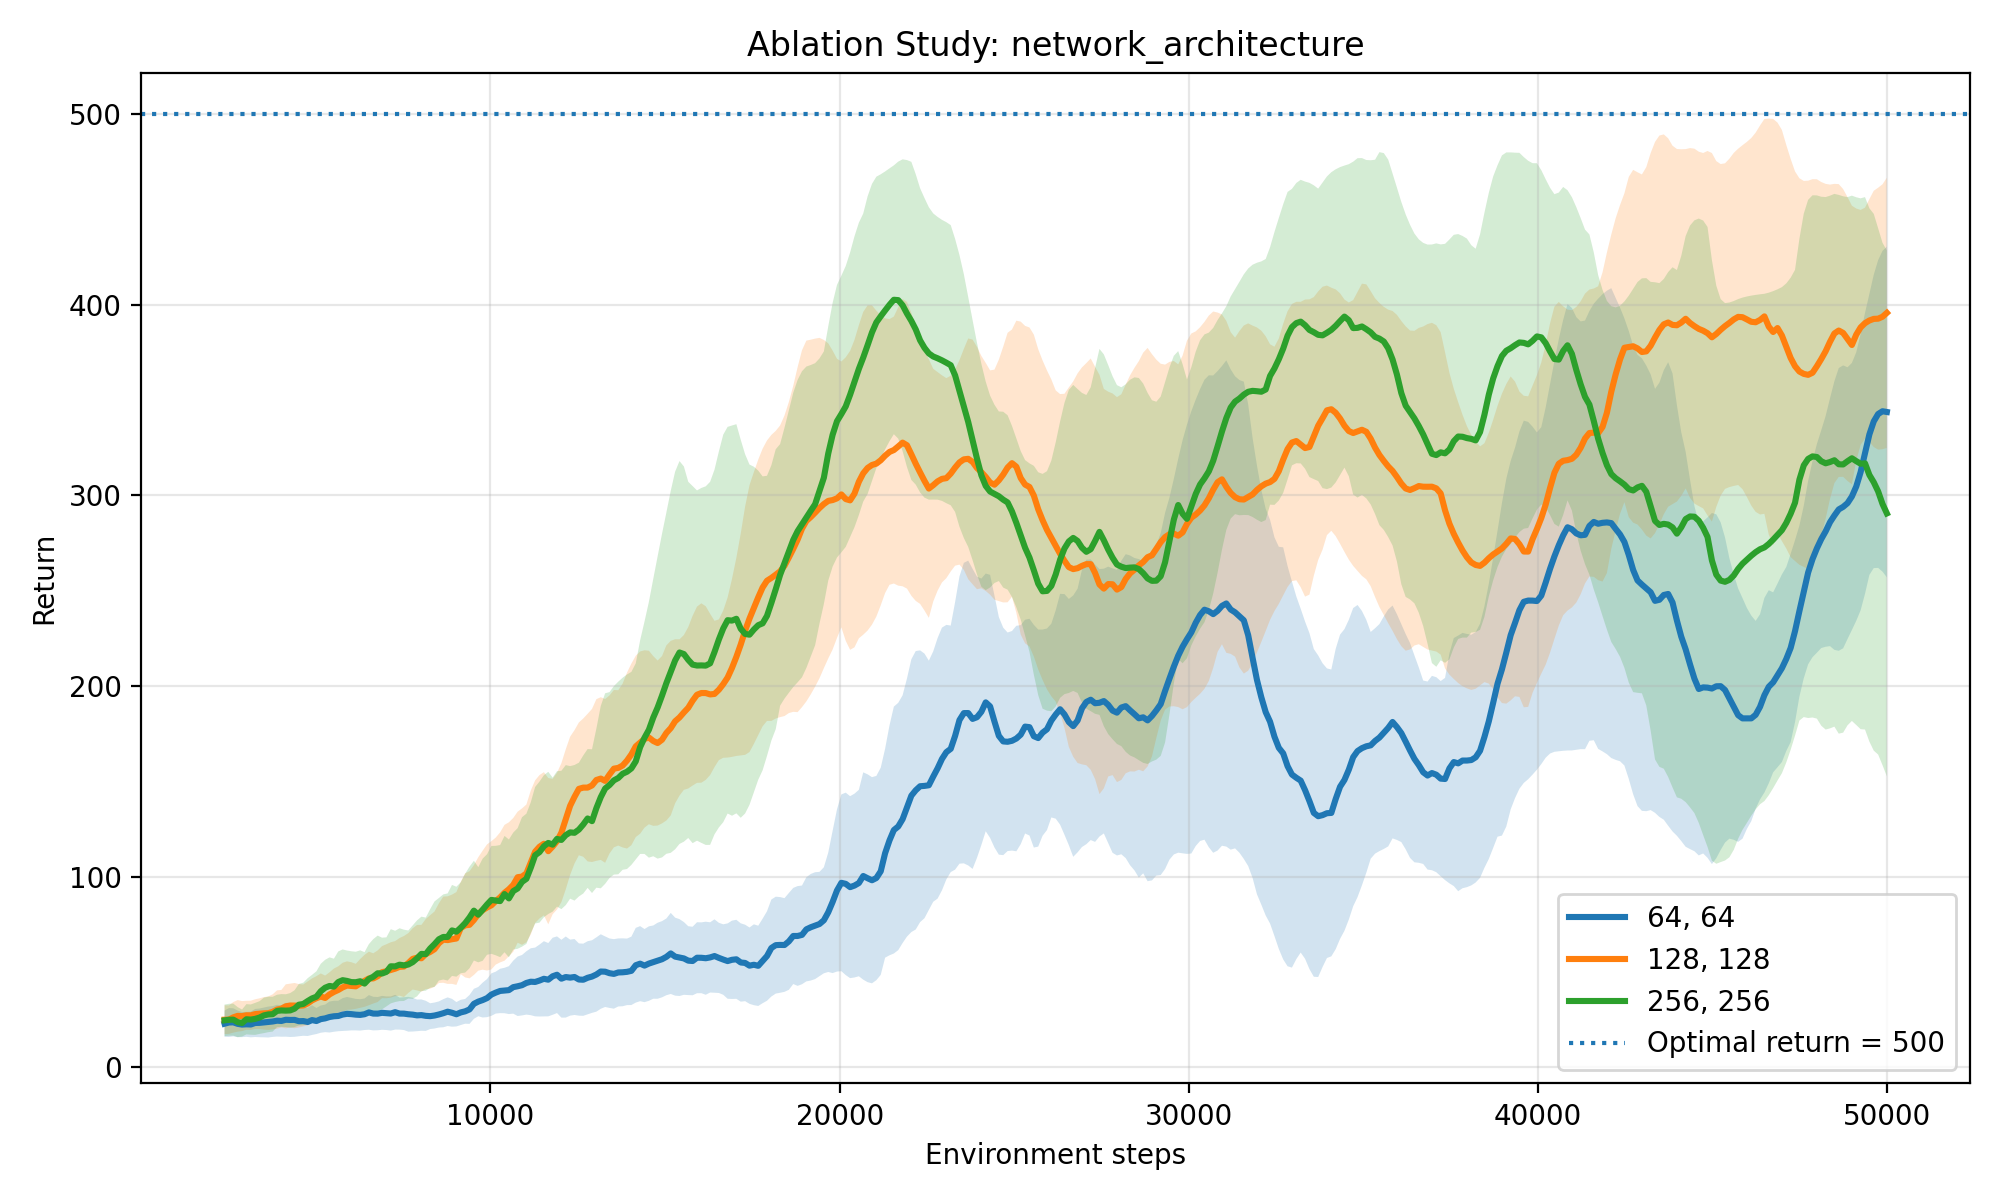
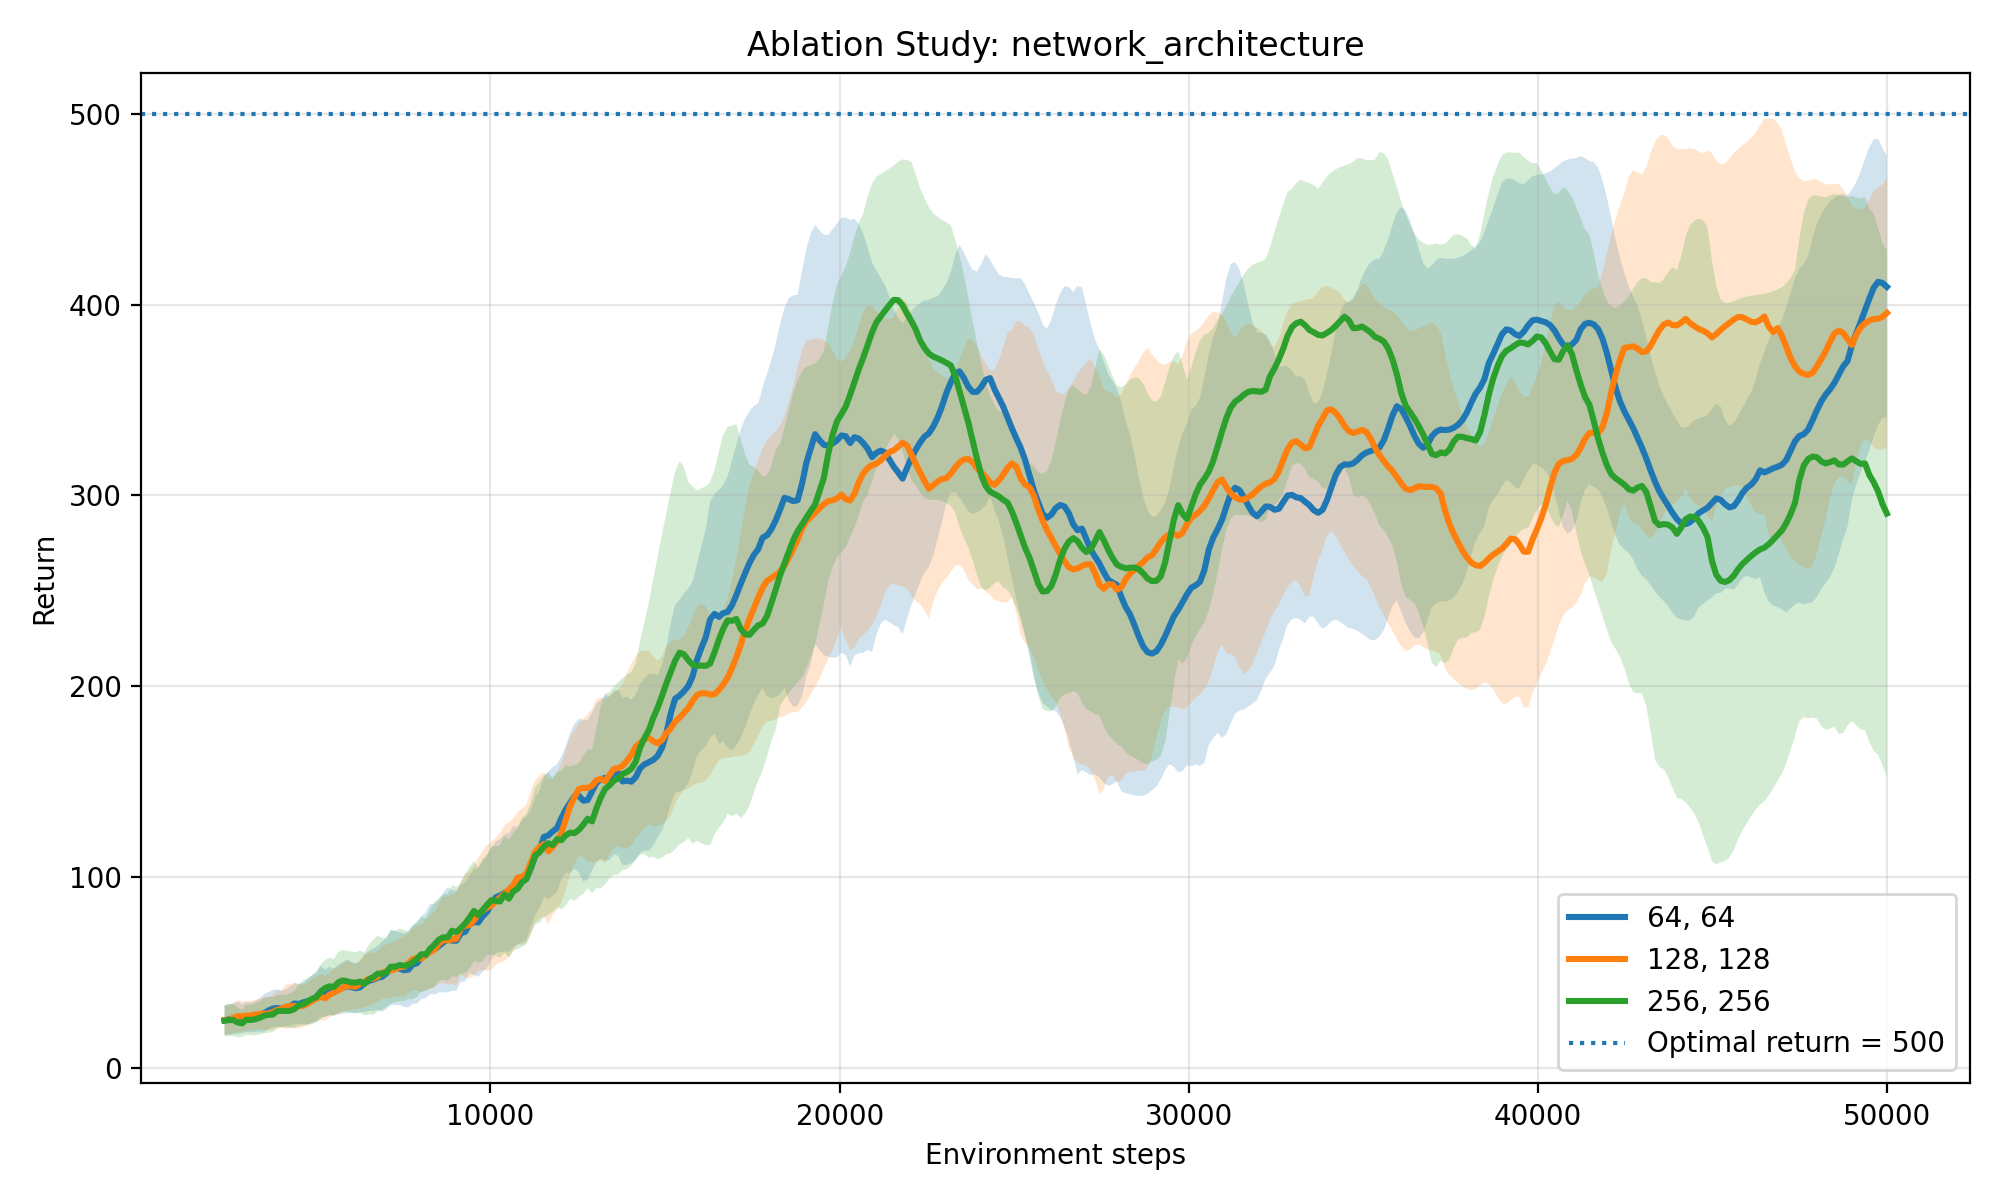
added upadets per step

Changed region(s): [[0.093, 0.1233, 0.961, 0.8633]]

diff --git a/ablation_study.py b/ablation_study.py
@@ -38,7 +38,6 @@ def interpolate_runs(runs, total_env_steps, num_points=400):
         if len(x) == 0:
             continue
 
-        # interpolate each seed's curve onto a shared x-grid
         y_interp = np.interp(x_grid, x, y)
         y_interp_runs.append(y_interp)
 
@@ -93,7 +92,7 @@ def run_ablation_study(base_cfg: Config, num_seeds=3, smoothing_window=20):
             "lr = 5e-3": replace(base_cfg, learning_rate=5e-3),
         },
         "network_architecture": {
-            "64, 64": replace(base_cfg, hidden_sizes=(64,)),
+            "64, 64": replace(base_cfg, hidden_sizes=(64, 64)),
             "128, 128": replace(base_cfg, hidden_sizes=(128, 128)),
             "256, 256": replace(base_cfg, hidden_sizes=(256, 256)),
         },
@@ -101,6 +100,11 @@ def run_ablation_study(base_cfg: Config, num_seeds=3, smoothing_window=20):
             "10k steps": replace(base_cfg, epsilon_decay_steps=10_000),
             "20k steps": replace(base_cfg, epsilon_decay_steps=20_000),
             "50k steps": replace(base_cfg, epsilon_decay_steps=50_000),
+        },
+        "update_to_data_ratio": {
+            "0.5 updates/step": replace(base_cfg, updates_per_step=0.5),
+            "1 update/step": replace(base_cfg, updates_per_step=1.0),
+            "4 updates/step": replace(base_cfg, updates_per_step=4.0),
         },
     }
 

diff --git a/Q_learning_target_replay.py b/Q_learning_target_replay.py
@@ -25,6 +25,8 @@ class Config:
     epsilon_start: float = 1.0
     epsilon_end: float = 0.05
     epsilon_decay_steps: int = 20000
+    updates_per_step: float = 1.0
+
 
     hidden_sizes: tuple = (128, 128)
 
@@ -202,6 +204,8 @@ def train(cfg: Config):
     set_seed(cfg.seed)
 
     env = gym.make(cfg.env_name)
+    env.action_space.seed(cfg.seed)
+
     obs_dim = env.observation_space.shape[0]
     action_dim = env.action_space.n
 
@@ -217,6 +221,8 @@ def train(cfg: Config):
     return_steps = []
     losses = []
 
+    update_accumulator = 0.0
+
     while env_steps < cfg.total_env_steps:
         epsilon = epsilon_by_step(env_steps, cfg)
         action = agent.select_action(state, epsilon)
@@ -224,9 +230,12 @@ def train(cfg: Config):
         next_state, reward, terminated, truncated, _ = env.step(action)
         done = terminated or truncated
 
-        loss = agent.update(state, action, reward, next_state, done)
-        if loss is not None:
-            losses.append(loss)
+        update_accumulator += cfg.updates_per_step
+        while update_accumulator >= 1.0:
+            loss = agent.update(state, action, reward, next_state, done)
+            if loss is not None:
+                losses.append(loss)
+            update_accumulator -= 1.0
 
         episode_return += reward
         env_steps += 1

diff --git a/Q_learning.py b/Q_learning.py
@@ -20,6 +20,7 @@ class Config:
     total_env_steps: int = 50000
     gamma: float = 0.99
     learning_rate: float = 1e-3
+    updates_per_step: float = 1.0
 
     epsilon_start: float = 1.0
     epsilon_end: float = 0.05
@@ -139,6 +140,8 @@ def train(cfg: Config):
     return_steps = []
     losses = []
 
+    update_accumulator = 0.0
+
     while env_steps < cfg.total_env_steps:
         epsilon = epsilon_by_step(env_steps, cfg)
         action = agent.select_action(state, epsilon)
@@ -146,8 +149,11 @@ def train(cfg: Config):
         next_state, reward, terminated, truncated, _ = env.step(action)
         done = terminated or truncated
 
-        loss = agent.update(state, action, reward, next_state, done)
-        losses.append(loss)
+        update_accumulator += cfg.updates_per_step
+        while update_accumulator >= 1.0:
+            loss = agent.update(state, action, reward, next_state, done)
+            losses.append(loss)
+            update_accumulator -= 1.0
 
         episode_return += reward
         env_steps += 1

diff --git a/compare_dqn_variants.py b/compare_dqn_variants.py
@@ -84,7 +84,8 @@ if __name__ == "__main__":
     cfg = Config(
         learning_rate=1e-3,
         hidden_sizes=(128, 128),
-        epsilon_decay_steps=50_000,
+        epsilon_decay_steps=20_000,
+        updates_per_step=2.0,
         total_env_steps=50_000,
         batch_size=64,
         replay_buffer_size=50_000,
